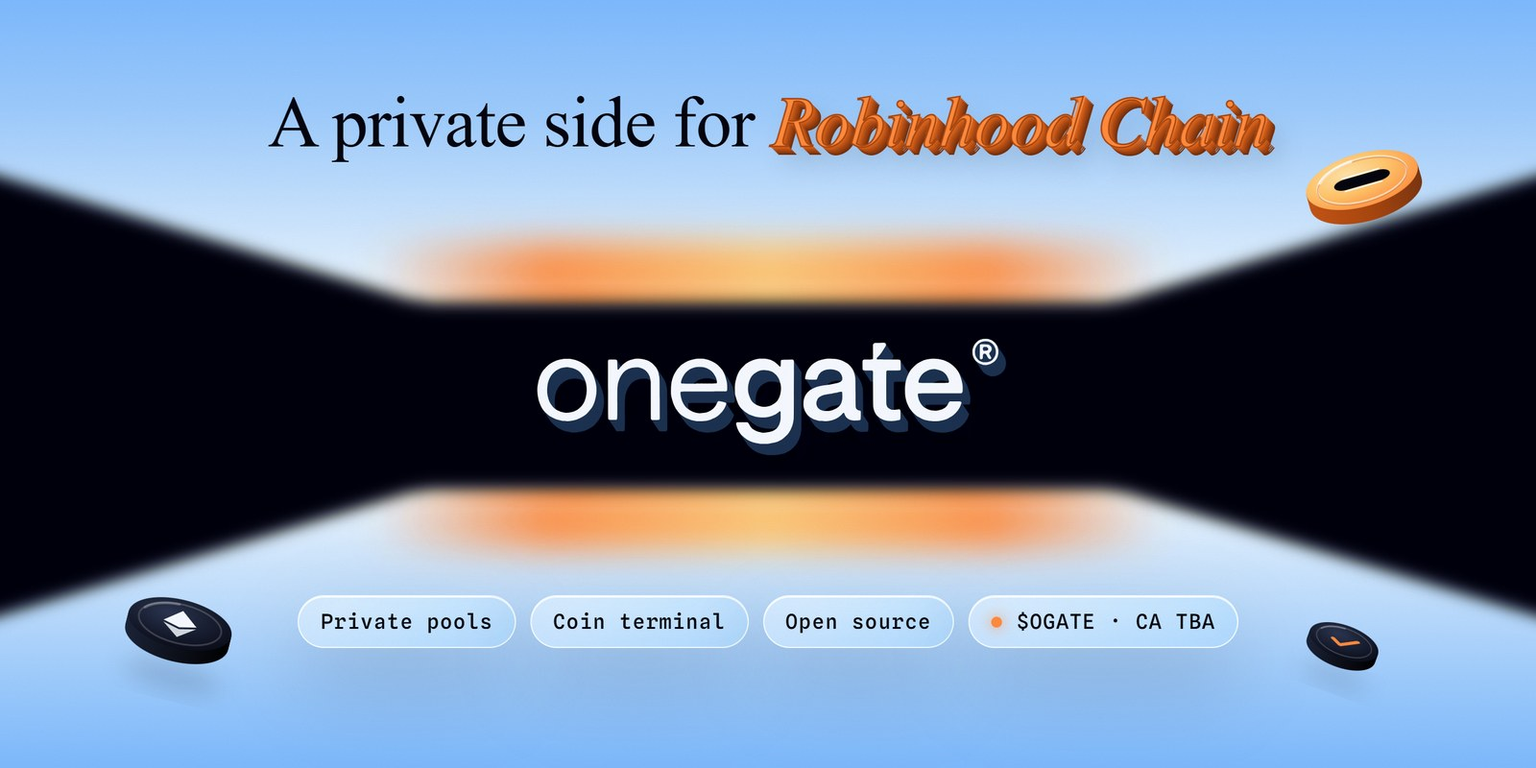
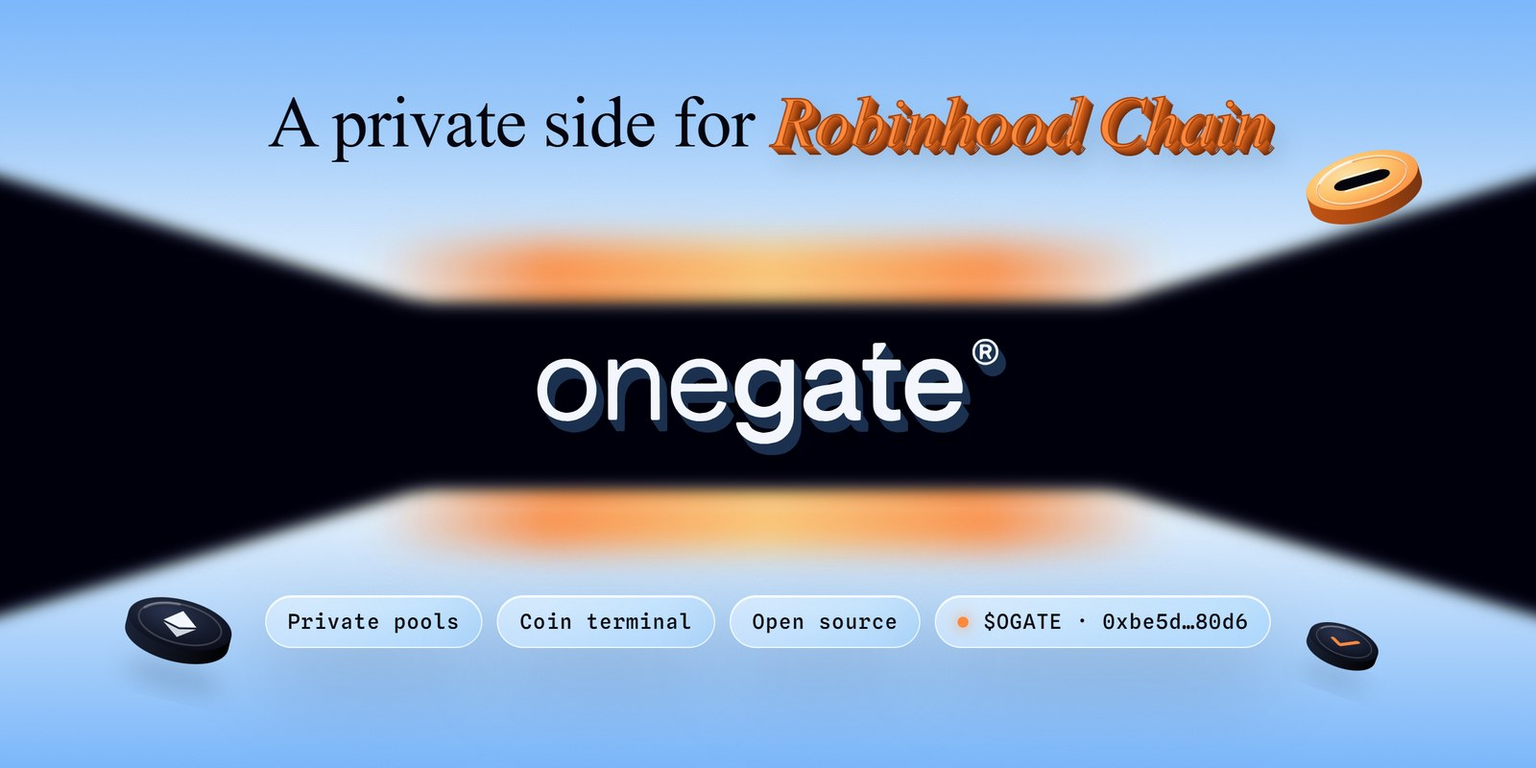
feat: show the $OGATE contract on the site and in the docs
CA 0xbe5d432a0b30443987d261b664cc6bb8bccb80d6 on Robinhood Chain (Pons V2
launch paired with ETH), with a copy key in the header, hero and footer,
explorer links in the docs, and the README identity and banner updated.
A Pons launch now opens in the terminal even when the pair feed is down.

Changed region(s): [[0.1562, 0.75, 0.8125, 0.8438]]

diff --git a/src/main.jsx b/src/main.jsx
@@ -9,6 +9,7 @@ import { IDENTITY } from './identity';
 import { WordmarkSvg } from './Wordmark';
 import DockWallet from './DockWallet';
 import GithubMark from './GithubMark';
+import ContractTag from './ContractTag';
 import { QUOTER_V2, SWAP_ROUTER02, UNIVERSAL_ROUTER, V4_QUOTER } from './terminal-addresses';
 import '@fontsource-variable/newsreader/opsz.css';
 import '@fontsource-variable/newsreader/opsz-italic.css';
@@ -21,7 +22,7 @@ const Terminal = lazy(() => import('./Terminal'));
 const Arrow = () => <ArrowUpRight size={17} />;
 
 function Docs() {
-  return <main className="docs page"><div className="page-heading"><span className="eyebrow">Onegate documentation</span><h1>Understand your private side</h1><p>What happens locally, what goes onchain, and what remains visible</p></div><div className="docs-layout"><aside><a href="#fees">Where fees go</a><a href="#terminal">Terminal</a><a href="#privacy">Privacy pools</a><a href="#recovery">Keys & recovery</a><a href="#vault">File vault</a><a href="#contracts">Contracts & sources</a><a href="#source">Source code</a><a href="#verification">Verification</a></aside><article><section id="fees"><h2>Where fees go</h2><p>Onegate’s token is {IDENTITY.ticker}. After it launches, its creator fees are collected and split three ways: a shared privacy balance that pays privacy costs for holders, {IDENTITY.ticker} stake, and the Onegate treasury. The shares, the start date and the rules for using the shared balance are announced at launch.</p><div className="notice"><CircleAlert size={20}/><p>The contract address is TBA, so no fees exist yet and nothing is collected. This page will carry the live balance and the sharing rules once they are real.</p></div></section><section id="terminal"><h2>Terminal</h2><p>The terminal lists Robinhood Chain coins from public pool feeds and buys them with ETH from your own wallet. Each coin is routed by its contract address, never by its symbol, because several contracts share the names of real coins and stocks.</p><p>Routes are Uniswap V3 through SwapRouter02 against WETH or through USDG, Uniswap V4 through the Universal Router against native ETH or through USDG, and Pons V2 bonding curves. Uniswap V4 pool keys are read from the PoolManager's opening record and must hash to the pool id. The server builds the call, your browser builds it again and compares it byte for byte, and the exact call is dry-run from your account before the wallet opens. Onegate adds no fee and holds nothing.</p><div className="notice"><CircleAlert size={20}/><p>Prices move between the quote and the block. The slippage you choose sets the least you accept. Majors are shown for reference and are not routed. Tokenized stocks follow their issuers' terms. Thin pools are left off the board, and a contract you paste opens even when it is not listed, so check the address you buy.</p></div>{[['SwapRouter02', SWAP_ROUTER02], ['Universal Router', UNIVERSAL_ROUTER], ['QuoterV2', QUOTER_V2], ['V4 Quoter', V4_QUOTER]].map(([label, address]) => <div className="contract-line" key={label}><b>{label}</b><a href={'https://robinhoodchain.blockscout.com/address/'+address} target="_blank" rel="noreferrer">{address}<ExternalLink size={14}/></a></div>)}</section><section id="privacy"><h2>Privacy pools</h2><p>Onegate is an independent interface to Privacy Cash EVM 1.3.3 on Robinhood Chain. The browser builds proofs with the original pinned circuit artifacts. ETH and USDG are the supported assets in this interface.</p><p>Connect, unlock, prepare and review are separate actions. Deposits request a wallet transaction. USDG may first require an exact-amount approval. Withdrawals require explicit confirmation before a proof is sent to the external relay and may move funds without another wallet prompt.</p><div className="notice"><CircleAlert size={20}/><p>Privacy is not anonymity. Public transactions, timing, amounts and provider metadata can reveal associations. Contracts and external services can fail or change. There is no private x402 merchant settlement in this project.</p></div></section><section id="recovery"><h2>Keys & recovery</h2><p>The fixed message is <code>Privacy Money account sign in</code>. The protocol derives keys from the signature. First unlock signs it twice to check consistency. Keep using the same wallet and signing method. Hardware wallets are not supported by this SDK.</p><p>The signature remains in memory and is cleared on lock, account/network changes or leaving the workspace. A project-specific fingerprint is saved locally to detect changes. Encrypted SDK notes may persist in IndexedDB. Clearing browser storage does not revoke signatures or make previously exposed data secret.</p></section><section id="vault"><h2>Local file vault</h2><p>Files up to 20 MB are processed in your browser with AES-256-GCM, a random 96-bit nonce and 128-bit salt. PBKDF2-SHA256 derives the key with 600,000 iterations. A new salt and nonce are generated for each file. Encrypted output uses the versioned Onegate file format.</p><p>File names and contents are encrypted. The downloaded encrypted file size remains observable. The passphrase never leaves the browser and cannot be recovered by Onegate. Use a long unique passphrase, keep it separate from the file, and test decryption before deleting the original.</p><p>No file content or password is stored in localStorage. Downloaded files remain on your device. This tool does not protect against a compromised browser, malicious extensions or screen capture.</p></section><section id="contracts"><h2>Contracts & sources</h2><p>These are external protocol contracts, not an Onegate token or treasury.</p>{[['ETH pool', PRIVACY.ethPool], ['USDG pool', PRIVACY.usdgPool], ['USDG token', PRIVACY.usdgToken]].map(([label, address]) => <div className="contract-line" key={label}><b>{label}</b><a href={'https://robin.etherscan.io/address/'+address} target="_blank" rel="noreferrer">{address}<ExternalLink size={14}/></a></div>)}<p><a href="https://github.com/Privacy-Cash/privacy-cash-core-evm" target="_blank" rel="noreferrer">Privacy Cash contract source <Arrow /></a></p><p>RPC, indexer and withdrawal relay are operated externally by Privacy Cash. Provider checks validate chain, contract presence and returned limits. They are not an audit of implementation code or a service guarantee.</p></section><section id="source"><h2>Source code</h2><p>The whole interface is public: the pages, the terminal server, the privacy worker, the tests and the checks that run on every change. Read it before you trust it.</p><a className="repo-line" href={IDENTITY.repo} target="_blank" rel="noreferrer"><GithubMark size={22} /><span><b>Onegategit/Onegate-Privacy</b><small>React, Vite, Three.js, viem · pinned Privacy Cash EVM 1.3.3</small></span><ArrowUpRight size={18} /></a></section><section id="verification"><h2>Verification & status</h2><p>This interface is unaudited. Amount, approval, recipient and relay payload guards are tested. Browser tests use isolated fixtures for financial actions. No funded deposit or withdrawal is claimed. Check the project's release record for the latest unfunded engine result.</p><p>Onegate ticker: {IDENTITY.ticker}. CA: {IDENTITY.contract || 'TBA'}. No holder restriction or official social account has been supplied. This application is not affiliated with Robinhood or endorsed by the integrated protocols.</p><h3>October 1, 2026</h3><p>Initial Onegate interface, private-pool workspace, browser-local file vault, original logo and responsive motion.</p><p>Interface rebuilt the same day around the logo: a scroll flight through the gate with live pool figures, a sky ground and one set of controls across every page. Transaction logic and its tests are unchanged.</p><p>Later the same day: the logo's own lettering traced into the site with a particle field that answers the pointer, running coins in the first section, and the terminal with wallet balance and buys routed on Uniswap V3, Uniswap V4 and Pons curves.</p></section></article></div></main>;
+  return <main className="docs page"><div className="page-heading"><span className="eyebrow">Onegate documentation</span><h1>Understand your private side</h1><p>What happens locally, what goes onchain, and what remains visible</p></div><div className="docs-layout"><aside><a href="#fees">Where fees go</a><a href="#terminal">Terminal</a><a href="#privacy">Privacy pools</a><a href="#recovery">Keys & recovery</a><a href="#vault">File vault</a><a href="#contracts">Contracts & sources</a><a href="#source">Source code</a><a href="#verification">Verification</a></aside><article><section id="fees"><h2>Where fees go</h2><p>Onegate’s token is {IDENTITY.ticker}, live on Robinhood Chain. Its creator fees are collected and split three ways: a shared privacy balance that pays privacy costs for holders, {IDENTITY.ticker} stake, and the Onegate treasury. The shares, the start date and the rules for using the shared balance will be posted here.</p><div className="contract-line"><b>{IDENTITY.ticker}</b><a href={'https://robinhoodchain.blockscout.com/token/'+IDENTITY.contract} target="_blank" rel="noreferrer">{IDENTITY.contract}<ExternalLink size={14}/></a></div><div className="notice"><CircleAlert size={20}/><p>The split is TBA. This page will carry the live balance and the sharing rules once they are set.</p></div></section><section id="terminal"><h2>Terminal</h2><p>The terminal lists Robinhood Chain coins from public pool feeds and buys them with ETH from your own wallet. Each coin is routed by its contract address, never by its symbol, because several contracts share the names of real coins and stocks.</p><p>Routes are Uniswap V3 through SwapRouter02 against WETH or through USDG, Uniswap V4 through the Universal Router against native ETH or through USDG, and Pons V2 bonding curves. Uniswap V4 pool keys are read from the PoolManager's opening record and must hash to the pool id. The server builds the call, your browser builds it again and compares it byte for byte, and the exact call is dry-run from your account before the wallet opens. Onegate adds no fee and holds nothing.</p><div className="notice"><CircleAlert size={20}/><p>Prices move between the quote and the block. The slippage you choose sets the least you accept. Majors are shown for reference and are not routed. Tokenized stocks follow their issuers' terms. Thin pools are left off the board, and a contract you paste opens even when it is not listed, so check the address you buy.</p></div>{[['SwapRouter02', SWAP_ROUTER02], ['Universal Router', UNIVERSAL_ROUTER], ['QuoterV2', QUOTER_V2], ['V4 Quoter', V4_QUOTER]].map(([label, address]) => <div className="contract-line" key={label}><b>{label}</b><a href={'https://robinhoodchain.blockscout.com/address/'+address} target="_blank" rel="noreferrer">{address}<ExternalLink size={14}/></a></div>)}</section><section id="privacy"><h2>Privacy pools</h2><p>Onegate is an independent interface to Privacy Cash EVM 1.3.3 on Robinhood Chain. The browser builds proofs with the original pinned circuit artifacts. ETH and USDG are the supported assets in this interface.</p><p>Connect, unlock, prepare and review are separate actions. Deposits request a wallet transaction. USDG may first require an exact-amount approval. Withdrawals require explicit confirmation before a proof is sent to the external relay and may move funds without another wallet prompt.</p><div className="notice"><CircleAlert size={20}/><p>Privacy is not anonymity. Public transactions, timing, amounts and provider metadata can reveal associations. Contracts and external services can fail or change. There is no private x402 merchant settlement in this project.</p></div></section><section id="recovery"><h2>Keys & recovery</h2><p>The fixed message is <code>Privacy Money account sign in</code>. The protocol derives keys from the signature. First unlock signs it twice to check consistency. Keep using the same wallet and signing method. Hardware wallets are not supported by this SDK.</p><p>The signature remains in memory and is cleared on lock, account/network changes or leaving the workspace. A project-specific fingerprint is saved locally to detect changes. Encrypted SDK notes may persist in IndexedDB. Clearing browser storage does not revoke signatures or make previously exposed data secret.</p></section><section id="vault"><h2>Local file vault</h2><p>Files up to 20 MB are processed in your browser with AES-256-GCM, a random 96-bit nonce and 128-bit salt. PBKDF2-SHA256 derives the key with 600,000 iterations. A new salt and nonce are generated for each file. Encrypted output uses the versioned Onegate file format.</p><p>File names and contents are encrypted. The downloaded encrypted file size remains observable. The passphrase never leaves the browser and cannot be recovered by Onegate. Use a long unique passphrase, keep it separate from the file, and test decryption before deleting the original.</p><p>No file content or password is stored in localStorage. Downloaded files remain on your device. This tool does not protect against a compromised browser, malicious extensions or screen capture.</p></section><section id="contracts"><h2>Contracts & sources</h2><p>These are external protocol contracts, not an Onegate token or treasury.</p>{[['ETH pool', PRIVACY.ethPool], ['USDG pool', PRIVACY.usdgPool], ['USDG token', PRIVACY.usdgToken]].map(([label, address]) => <div className="contract-line" key={label}><b>{label}</b><a href={'https://robin.etherscan.io/address/'+address} target="_blank" rel="noreferrer">{address}<ExternalLink size={14}/></a></div>)}<p><a href="https://github.com/Privacy-Cash/privacy-cash-core-evm" target="_blank" rel="noreferrer">Privacy Cash contract source <Arrow /></a></p><p>RPC, indexer and withdrawal relay are operated externally by Privacy Cash. Provider checks validate chain, contract presence and returned limits. They are not an audit of implementation code or a service guarantee.</p></section><section id="source"><h2>Source code</h2><p>The whole interface is public: the pages, the terminal server, the privacy worker, the tests and the checks that run on every change. Read it before you trust it.</p><a className="repo-line" href={IDENTITY.repo} target="_blank" rel="noreferrer"><GithubMark size={22} /><span><b>Onegategit/Onegate-Privacy</b><small>React, Vite, Three.js, viem · pinned Privacy Cash EVM 1.3.3</small></span><ArrowUpRight size={18} /></a></section><section id="verification"><h2>Verification & status</h2><p>This interface is unaudited. Amount, approval, recipient and relay payload guards are tested. Browser tests use isolated fixtures for financial actions. No funded deposit or withdrawal is claimed. Check the project's release record for the latest unfunded engine result.</p><p>Onegate ticker: {IDENTITY.ticker}. CA: <a href={'https://robinhoodchain.blockscout.com/token/'+IDENTITY.contract} target="_blank" rel="noreferrer">{IDENTITY.contract}</a>, a Pons launch paired with ETH. No holder restriction or official social account has been supplied. This application is not affiliated with Robinhood or endorsed by the integrated protocols.</p><h3>October 1, 2026</h3><p>Initial Onegate interface, private-pool workspace, browser-local file vault, original logo and responsive motion.</p><p>Interface rebuilt the same day around the logo: a scroll flight through the gate with live pool figures, a sky ground and one set of controls across every page. Transaction logic and its tests are unchanged.</p><p>Later the same day: the logo's own lettering traced into the site with a particle field that answers the pointer, running coins in the first section, and the terminal with wallet balance and buys routed on Uniswap V3, Uniswap V4 and Pons curves.</p></section></article></div></main>;
 }
 
 class Boundary extends React.Component {
@@ -39,7 +40,7 @@ function Shell() {
       <Link to="/" className="brand" aria-label="Onegate Privacy home"><WordmarkSvg className="brand-word" /></Link>
       <nav aria-label="Main navigation"><NavLink to="/terminal">Terminal</NavLink><NavLink to="/privacy">Workspace</NavLink><NavLink to="/docs">Docs</NavLink><a href={IDENTITY.repo} target="_blank" rel="noreferrer" className="nav-out">GitHub<ArrowUpRight size={13} /></a></nav>
       <div className="dock-end">
-        <span className="dock-id">{IDENTITY.ticker} · CA {IDENTITY.contract || 'TBA'}</span>
+        <span className="dock-id">{IDENTITY.ticker} · <ContractTag /></span>
         <DockWallet />
         <button className="menu-toggle" aria-label={menu ? 'Close menu' : 'Open menu'} aria-expanded={menu} onClick={() => setMenu(!menu)}>{menu ? <X size={20} /> : <Menu size={20} />}</button>
       </div>
@@ -49,7 +50,7 @@ function Shell() {
       <div className="foot-row">
         <Link to="/" className="foot-mark" aria-label="Onegate home"><WordmarkSvg /></Link>
         <nav aria-label="Footer"><Link to="/terminal">Terminal</Link><Link to="/privacy">Privacy workspace</Link><Link to="/docs">Docs & risks</Link><a href={IDENTITY.repo} target="_blank" rel="noreferrer"><GithubMark size={14} />GitHub</a></nav>
-        <span className="foot-id">{IDENTITY.ticker} · CA {IDENTITY.contract || 'TBA'}</span>
+        <span className="foot-id">{IDENTITY.ticker} · CA <ContractTag /></span>
       </div>
     </footer>}
   </>;

diff --git a/src/Home.jsx b/src/Home.jsx
@@ -5,6 +5,7 @@ import Scene from './Scene';
 import CoinTape from './CoinTape';
 import Wordmark from './Wordmark';
 import { IDENTITY } from './identity';
+import ContractTag from './ContractTag';
 import { activation, stateAt } from './flight';
 import { usePoolLive, fmt } from './pool-live';
 
@@ -18,6 +19,7 @@ const steps = [
 const GLYPHS = '░▒▓█NX/';
 const scramble = (n, seed) => Array.from({ length: n }, (_, i) => GLYPHS[(i * 7 + seed * 13 + ((i * seed) % 5)) % GLYPHS.length]).join('');
 const updates = [
+  ['Oct 2, 2026', '$OGATE is live on Robinhood Chain at 0xbe5d…80d6, a Pons launch paired with ETH. The terminal buys it on its curve, dry-run from your account like every other coin.'],
   ['Oct 2, 2026', 'The source is public on GitHub: the pages, the terminal server, the privacy worker and the tests, checked on every change.'],
   ['Oct 2, 2026', 'The terminal now opens like a trading app: one bar with search, chain, ETH price and your wallet, and the columns fill the screen.'],
   ['Oct 1, 2026', 'The terminal: Robinhood Chain coins with a chart, your balance, and buys on Uniswap V3, Uniswap V4 and Pons curves, dry-run from your account before the wallet opens.'],
@@ -30,7 +32,7 @@ const faq = [
   ['Is my wallet connection private?', 'No. Your wallet address and every deposit and withdrawal are public on chain. RPC, indexer and relay providers can see network metadata.'],
   ['How do I recover a private balance?', 'Sign the same fixed unlock message with the same wallet and signing method. A different signature can derive a different private account. Never share it.'],
   ['Has a funded deposit been tested?', 'Not yet. Amount, approval, recipient and relay guards are tested with fixtures. This integration is unaudited.'],
-  ['Where do $OGATE fees go?', 'After launch, creator fees are split between a shared privacy balance for holders, $OGATE stake and the Onegate treasury. The shares are announced at launch. Nothing is collected before the contract exists.'],
+  ['Where do $OGATE fees go?', 'After launch, creator fees are split between a shared privacy balance for holders, $OGATE stake and the Onegate treasury. The shares are TBA and will be posted on the docs page.'],
 ];
 
 // Unannounced chapters keep their titles in shifting glyphs until they ship.
@@ -41,7 +43,7 @@ function Glyphs({ n }) {
 }
 
 function Ticker() {
-  return <p className="ticker-line"><b>{IDENTITY.ticker}</b> · CA {IDENTITY.contract || 'TBA'}</p>;
+  return <p className="ticker-line"><b>{IDENTITY.ticker}</b> · CA <ContractTag full /></p>;
 }
 
 export default function Home() {
@@ -148,7 +150,7 @@ export default function Home() {
         <article className="ch ch-fees" ref={ch(5)}>
           <div className="zone top"><div className="row lift split">
             <h2>Where the fees <em>go</em></h2>
-            <p>After {IDENTITY.ticker} launches, its creator fees are collected and split three ways. The shares are announced at launch. Nothing is collected before the contract exists.</p>
+            <p>{IDENTITY.ticker} creator fees are collected and split three ways. The shares are TBA and will be posted here.</p>
           </div></div>
           <div className="zone band"><div className="row lift">
             <ol className="fee-split">

diff --git a/server/terminal.js b/server/terminal.js
@@ -185,7 +185,8 @@ export async function getCoin(input) {
   const address = addr(input);
   if (!address) throw new TerminalError("Provide a token address.", 400);
   return cached("coin:" + address, 30000, async () => {
-    const pairs = (await pairsOf(address)).filter((p) => p.baseToken?.address?.toLowerCase() === address || p.quoteToken?.address?.toLowerCase() === address)
+    let pairsErr = null;
+    const pairs = (await pairsOf(address).catch((e) => { pairsErr = e; return []; })).filter((p) => p.baseToken?.address?.toLowerCase() === address || p.quoteToken?.address?.toLowerCase() === address)
       .sort((a, b) => (num(b.liquidity?.usd) ?? 0) - (num(a.liquidity?.usd) ?? 0));
     const own = pairs.filter((p) => p.baseToken?.address?.toLowerCase() === address);
     const route = own.filter((p) => pairRoutable(p, address))[0] || null;
@@ -201,6 +202,7 @@ export async function getCoin(input) {
       const r = await client.readContract({ address: PONS_FACTORY, abi: ponsAbi, functionName: "getLaunchedToken", args: [address] }).catch(() => null);
       if (r?.exists && Number(r.phase) === 0 && r.pairToken.toLowerCase() === NATIVE) pons = { kind: "pons", venue: VENUE.pons, pool: r.curve.toLowerCase(), pair: `${symbol || token?.symbol} / ETH`, quote: NATIVE, createdAt: null };
     }
+    if (pairsErr && !pons) throw pairsErr instanceof TerminalError ? pairsErr : new TerminalError("The pair feed is unavailable right now.", 502);
     const kind = route ? pairKind(route) : null;
     return {
       address, symbol: String(symbol || token?.symbol || "").slice(0, 16), name: String(name || token?.name || "").slice(0, 80), decimals,

diff --git a/src/style.css b/src/style.css
@@ -97,6 +97,12 @@ button, a { -webkit-tap-highlight-color: transparent; touch-action: manipulation
 .keys { display: flex; flex-wrap: wrap; gap: var(--s4); }
 .ticker-line { font: 500 13px var(--mono); letter-spacing: .06em; color: var(--text-2); }
 .ticker-line b { font-weight: 600; color: var(--ink); }
+.ca-tag { display: inline-flex; align-items: center; gap: 6px; padding: 0; border: 0; background: none; font: inherit; letter-spacing: inherit; color: inherit; cursor: pointer; pointer-events: auto; transition: color var(--fast) var(--ease-ui); }
+.ca-tag:hover { color: var(--ember-deep); }
+.ca-tag svg { flex: none; opacity: .7; }
+.ca-tag .ca-short { display: none; }
+.foot .ca-tag:hover, .dock.over-stage .ca-tag:hover { color: var(--ember); }
+@media (max-width: 640px) { .ca-tag.has-full .ca-full { display: none; } .ca-tag.has-full .ca-short { display: inline; } }
 .figures dt { font: 500 var(--fs-label)/1.2 var(--mono); text-transform: uppercase; letter-spacing: .08em; color: var(--text-2); }
 .figures { display: flex; flex-wrap: wrap; gap: var(--s6) var(--s7); }
 .figures > div { display: flex; flex-direction: column-reverse; justify-content: flex-end; gap: var(--s2); padding-left: var(--s4); border-left: var(--bw) solid var(--ink); }

diff --git a/src/ContractTag.jsx b/src/ContractTag.jsx
@@ -1,0 +1,19 @@
+import { useState } from 'react';
+import { Check, Copy } from 'lucide-react';
+import { IDENTITY } from './identity';
+
+export const shortCA = (a) => a.slice(0, 6) + '…' + a.slice(-4);
+
+// The $OGATE contract with a copy key. `full` shows the whole address on wide layouts and the short form on phones.
+export default function ContractTag({ full = false }) {
+  const [done, setDone] = useState(false);
+  const ca = IDENTITY.contract;
+  if (!ca) return <span>TBA</span>;
+  const copy = async () => {
+    try { await navigator.clipboard.writeText(ca); setDone(true); setTimeout(() => setDone(false), 1400); } catch { /* clipboard blocked: the address stays visible in the title */ }
+  };
+  return <button type="button" className={'ca-tag' + (full ? ' has-full' : '')} onClick={copy} title={ca} aria-label={done ? 'Contract address copied' : 'Copy contract address ' + ca}>
+    {full ? <><span className="ca-full">{ca}</span><span className="ca-short">{shortCA(ca)}</span></> : <span>{shortCA(ca)}</span>}
+    {done ? <Check size={13} aria-hidden="true" /> : <Copy size={13} aria-hidden="true" />}
+  </button>;
+}

diff --git a/src/identity.js b/src/identity.js
@@ -1,1 +1,1 @@
-export const IDENTITY = Object.freeze({ ticker: '$OGATE', contract: null, repo: 'https://github.com/Onegategit/Onegate-Privacy' });
+export const IDENTITY = Object.freeze({ ticker: '$OGATE', contract: '0xbe5d432a0b30443987d261b664cc6bb8bccb80d6', repo: 'https://github.com/Onegategit/Onegate-Privacy' });

diff --git a/README.md b/README.md
@@ -1,4 +1,4 @@
-<a href="https://onegate-privacy.vercel.app"><img src="docs/assets/onegate-banner.jpg" width="100%" alt="Onegate, a private side for Robinhood Chain: private pools, coin terminal, open source, $OGATE CA TBA" /></a>
+<a href="https://onegate-privacy.vercel.app"><img src="docs/assets/onegate-banner.jpg" width="100%" alt="Onegate, a private side for Robinhood Chain: private pools, coin terminal, open source, $OGATE" /></a>
 
 <h1 align="center">Onegate</h1>
 <p align="center"><strong>A private side for Robinhood Chain</strong></p>
@@ -20,7 +20,7 @@ Deposit into a privacy pool from your own wallet, let your browser build the pro
 
 **Coin terminal** - Memes, tokenized stocks and majors with charts, pools and your balance, bought with ETH on Uniswap V3, Uniswap V4 or a Pons curve
 
-**Fees come back as privacy** - After $OGATE launches, creator fees fill a shared privacy balance for holders, $OGATE stake and the treasury (shares announced at launch)
+**Fees come back as privacy** - $OGATE creator fees fill a shared privacy balance for holders, $OGATE stake and the treasury (shares TBA)
 
 ## Demo
 
@@ -116,15 +116,18 @@ Runtime code hashes for the router, quoter, factory and pool manager contracts w
 - Hardware wallets are not supported by the privacy SDK; the same wallet and signing method are needed to recover a private balance
 - Majors are shown for reference and are not routed; tokenized stocks follow their issuers' terms
 - Terminal caches and request budgets are per server instance, not a durable account-wide limit
-- The $OGATE fee split is TBA and nothing is collected before the contract exists
+- The $OGATE fee split is TBA; the shares will be posted on the docs page
+- $OGATE has no market index yet, so the terminal shows its curve quote but no price chart until one appears
 
 ## Project Identity
 
 Ticker: **$OGATE**  
 Network: **Robinhood Chain**  
-Contract: **TBA**
+Contract: [`0xbe5d432a0b30443987d261b664cc6bb8bccb80d6`](https://robinhoodchain.blockscout.com/token/0xbe5d432a0b30443987d261b664cc6bb8bccb80d6)
 
-There is no $OGATE contract yet. The real address will be posted on the site and in this repository at the same time; any address you see before that is not from Onegate. Publishing source code does not establish contract safety, liquidity or an audit.
+Supplied by the project owner and read on chain: name Onegate Privacy, symbol OGATE, 18 decimals, 1,000,000,000 supply, a Pons V2 launch paired with ETH. Open it in the terminal at [onegate-privacy.vercel.app/terminal/0xbe5d…](https://onegate-privacy.vercel.app/terminal/0xbe5d432a0b30443987d261b664cc6bb8bccb80d6).
+
+This is the only $OGATE contract. Publishing source code does not establish contract safety, liquidity or an audit.
 
 ## Repository Map
 

diff --git a/SECURITY.md b/SECURITY.md
@@ -24,4 +24,4 @@ There is no promised response time, bug bounty, external audit or blanket author
 - Review dependency updates, especially `privacycash-evm` and `viem`, and keep the pinned circuit hashes in sync with a reviewed SDK version
 - Preserve third-party notices
 
-Publishing this code is not a security certification, and $OGATE has no contract yet.
+Publishing this code is not a security certification. The only $OGATE contract is `0xbe5d432a0b30443987d261b664cc6bb8bccb80d6` on Robinhood Chain.
